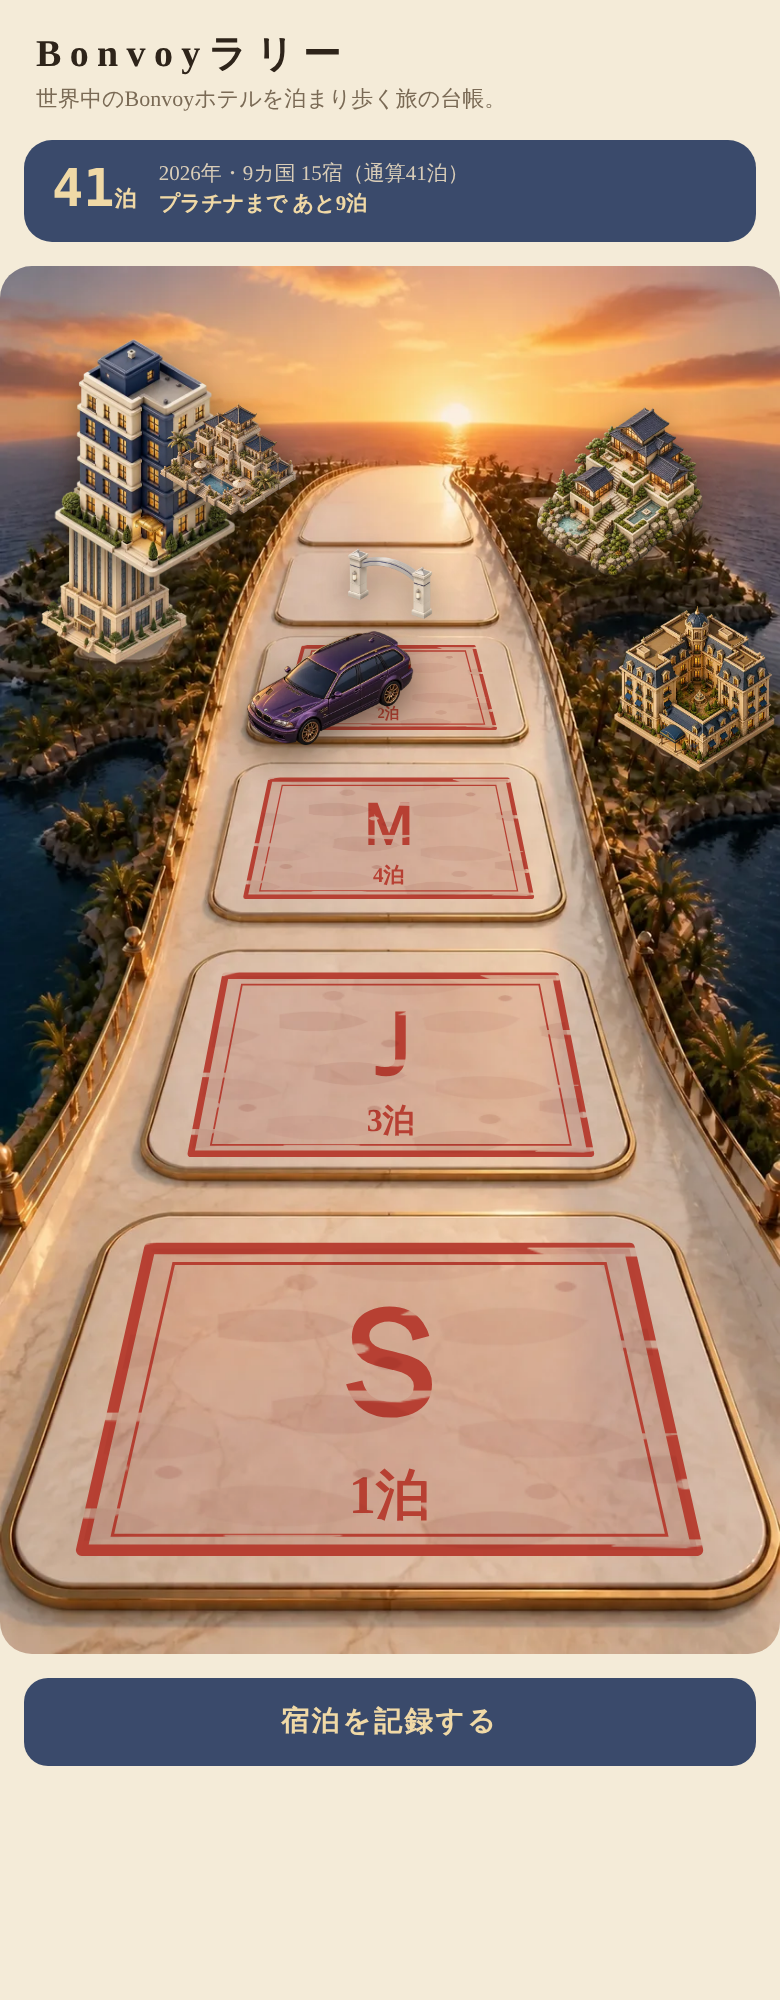
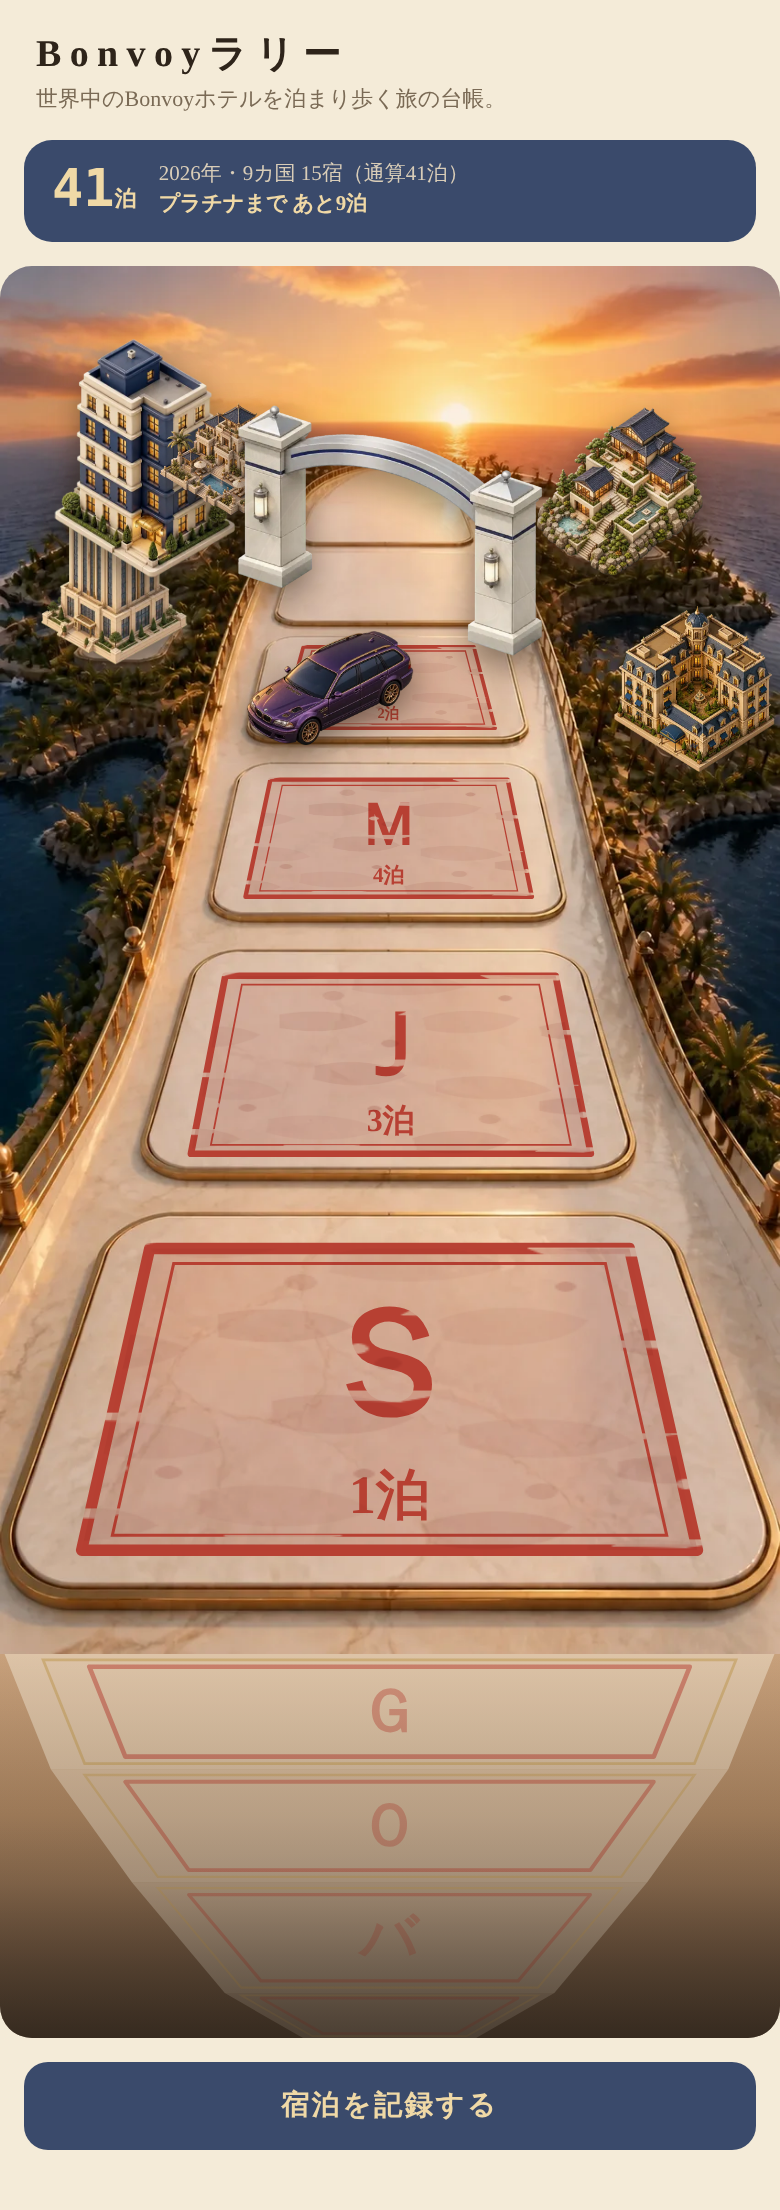
過ぎてきた道と、道を跨ぐゲート
Shun要望2件:
1「今のマスの手前薄く5-7マス欲しい。過ぎてきたんだっていう」
  → 盤面を窓(win)と過去(past)の2層に分離。窓の下端から手前へ、圧縮しながら
    幅も詰まって縁を越えて落ちる6マス。不透明度を段階的に下げ暗く沈める
2「ゲートはちゃんとマスを跨いで欲しい。そこを超えることが体験の核」
  → ゲートをマス上ではなくマスとマスの境界に立て、両脚が路肩に載る幅で配置。
    幅は道幅の実測近似から算出し、高さは素材の縦横比(512:420)を維持

Claude-Session: https://claude.ai/code/session_01UNaWf6a3iwDpAqvY1FhX3N

diff --git a/design/mock-road-window-base.html b/design/mock-road-window-base.html
@@ -9,8 +9,11 @@ h1{font-size:19px;letter-spacing:.22em;margin:14px 18px 2px;color:#2E241A}
 .hud{display:flex;align-items:center;gap:11px;background:var(--navy);border-radius:14px;padding:10px 14px;color:#F4EBD8;margin:0 12px}
 .hud .n{font-size:26px;font-weight:800;font-family:ui-monospace,monospace;color:#F0D9A6;line-height:1}
 .hud .n small{font-size:11px}.hud .s{font-size:10.5px;line-height:1.5;color:#D9CDB8}.hud .s b{color:#F0D9A6}
-.board{position:relative;width:100%;margin-top:12px;border-radius:16px;overflow:hidden}
-.board>img.base{width:100%;display:block}
+.board{width:100%;margin-top:12px;border-radius:16px;overflow:hidden}
+.win{position:relative;width:100%;line-height:0}
+img.base{width:100%;display:block}
+.past{position:relative;width:100%;line-height:0;background:linear-gradient(180deg,#C8A17C 0%,#A9835F 42%,#6E5540 78%,#4A3B2E 100%)}
+.past svg{width:100%;display:block}
 .ov{position:absolute;inset:0;width:100%;height:100%}
 .spr{position:absolute;transform:translate(-50%,-100%);filter:drop-shadow(0 6px 8px rgba(30,20,8,.5))}
 .spr img{width:100%;display:block}
@@ -20,7 +23,7 @@ h1{font-size:19px;letter-spacing:.22em;margin:14px 18px 2px;color:#2E241A}
 <h1>Bonvoyラリー</h1><p class="sub">世界中のBonvoyホテルを泊まり歩く旅の台帳。</p>
 <div class="hud"><span class="n">41<small>泊</small></span>
 <div class="s">2026年・9カ国 15宿（通算41泊）<br><b>プラチナまで あと9泊</b></div></div>
-<div class="board" id="b"><img class="base" src="../assets/world/road-window-grand-highway-unbuilt.webp"></div>
+<div class="board"><div class="win" id="b"><img class="base" src="../assets/world/road-window-grand-highway-unbuilt.webp"></div><div class="past" id="past"></div></div>
 <div class="cta">宿泊を記録する</div>
 </div>
 <script>
@@ -73,13 +76,20 @@ const __J={"schemaVersion":1,"note":"Grand Highway unbuilt and gateless fixed-wi
   e.style.cssText=`left:${bx/W*100}%;top:${by/H*100}%;width:${w/W*100}%`;
   e.innerHTML=`<img src="${A}${BLDS[i]}">`; B.appendChild(e);
  });
- /* ゲート: 進捗9/25 → horizon寄り */
- const g=J.gate, t=0.42, lerp=(a,b)=>a+(b-a)*t;
- const gx=lerp(g.horizon.center[0],g.near.center[0]), gy=lerp(g.horizon.center[1],g.near.center[1]);
- const gw=lerp(g.horizon.size[0],g.near.size[0]), gh=lerp(g.horizon.size[1],g.near.size[1]);
- const ge=document.createElement("span"); ge.className="spr";
- ge.style.cssText=`left:${gx/W*100}%;top:${(gy+gh/2)/H*100}%;width:${gw/W*100}%;opacity:${lerp(.58,1)}`;
- ge.innerHTML=`<img src="${A}gate-platinum-50.webp">`; B.appendChild(ge);
+ /* ゲート: 道を跨ぐ。マスとマスの境界に立ち、両脚が路肩に載る幅で置く。
+    そこを"くぐる"ことが体験の核なので、マスの上に被せない。 */
+ (function(){
+  const roadW=y=>273+0.498*(y-340);                    /* 実測から起こした道幅の近似 */
+  const AR=420/512;                                    /* ゲート素材の縦横比 */
+  /* 最新判子のマスの、ひとつ奥の境界に立てる（進捗が進むほど手前の境界へ降りてくる） */
+  const ahead=Math.min(STAYS.length+1, J.tiles.length-1);
+  const aq=cs(J.tiles[ahead].corners), bq=cs(J.tiles[ahead-1].corners);
+  const gy=(Math.max(aq[2][1],aq[3][1]) + Math.min(bq[0][1],bq[1][1]))/2;
+  const gw=roadW(gy)*1.10, gh=gw*AR;
+  const ge=document.createElement("span"); ge.className="spr";
+  ge.style.cssText=`left:${426/W*100}%;top:${(gy+gh*0.10)/H*100}%;width:${gw/W*100}%;opacity:.96`;
+  ge.innerHTML=`<img src="${A}gate-platinum-50.webp">`; B.appendChild(ge);
+ })();
  /* 愛車: 契約のpawns.shun */
  const ct=cs(J.tiles[STAYS.length-1].corners);            /* 最新判子のマス */
  const cx2=ct[3][0]+(ct[2][0]-ct[3][0])*0.28, cy2=(ct[3][1]+ct[2][1])/2+6;
@@ -87,6 +97,37 @@ const __J={"schemaVersion":1,"note":"Grand Highway unbuilt and gateless fixed-wi
  const pe=document.createElement("span"); pe.className="spr";
  pe.style.cssText=`left:${cx2/W*100}%;top:${cy2/H*100}%;width:${cw/W*100}%`;
  pe.innerHTML=`<img src="${A}pawn-shun-m3.webp">`; B.appendChild(pe);
+ /* ===== 過ぎてきた道: 手前へ丸く落ち込む薄いマス（可読性は不要） ===== */
+ (function(){
+  const PW=852, N=6, PH=420;                       /* 6マス分 */
+  const nq=cs(J.tiles[0].corners);                 /* near タイル＝直近の過去 */
+  const bl=nq[3], br=nq[2];                        /* 下辺 */
+  const OLD=["Ｇ","Ｏ","バ","バ","Ｃ","Ｒ"];        /* さらに過去の宿（薄く） */
+  let y=0, halfW=(br[0]-bl[0])/2, cx=(bl[0]+br[0])/2, out="";
+  for(let i=0;i<N;i++){
+   const t=(i+1)/N;
+   const step=PH*(0.30-0.035*i)/(1-0.10*i);        /* 手前ほど圧縮＝縁を越えて落ちる */
+   const shrink=1-0.12*(i+1);                      /* 縁の丸みで幅も詰まる */
+   const y2=Math.min(y+step,PH), hw2=halfW*shrink;
+   const q=[[cx-halfW,y],[cx+halfW,y],[cx+hw2,y2],[cx-hw2,y2]];
+   const op=Math.max(0.62-0.078*i,0.10);
+   const ins=(p,k)=>{const ccx=(p[0][0]+p[1][0]+p[2][0]+p[3][0])/4,ccy=(p[0][1]+p[1][1]+p[2][1]+p[3][1])/4;
+     return p.map(z=>[ccx+(z[0]-ccx)*k, ccy+(z[1]-ccy)*k]);};
+   const dd=p=>"M"+p.map(z=>z.join(",")).join("L")+"Z";
+   out+=`<path d="${dd(q)}" fill="#EFE2CE" opacity="${op*0.85}"/>
+    <path d="${dd(ins(q,.90))}" fill="none" stroke="#C09A55" stroke-width="${Math.max(3-i*0.35,1)}" opacity="${op*0.9}"/>
+    <path d="${dd(ins(q,.78))}" fill="none" stroke="${INK}" stroke-width="${Math.max(5-i*0.7,1.2)}" stroke-linejoin="round" opacity="${op*0.8}"/>`;
+   if(i<3){ const cy3=(y+y2)/2, fs=(y2-y)*0.52;
+    out+=`<text x="${cx}" y="${cy3+fs*0.32}" text-anchor="middle" font-size="${fs}" font-weight="600" fill="${INK}"
+     opacity="${op*0.62}" font-family="'Hiragino Mincho ProN','Yu Mincho',serif">${OLD[i]}</text>`; }
+   halfW=hw2; y=y2; if(y>=PH) break;
+  }
+  document.getElementById("past").innerHTML=
+   `<svg viewBox="0 0 ${PW} ${PH}" preserveAspectRatio="none">${out}
+    <rect x="0" y="0" width="${PW}" height="${PH}" fill="url(#fade)"/>
+    <defs><linearGradient id="fade" x1="0" y1="0" x2="0" y2="1">
+    <stop offset="0" stop-color="#3A2C1E" stop-opacity="0"/><stop offset=".6" stop-color="#3A2C1E" stop-opacity=".18"/><stop offset="1" stop-color="#2A2016" stop-opacity=".62"/></linearGradient></defs></svg>`;
+ })();
  window.__ready=true;
 })(__J);
 </script>
